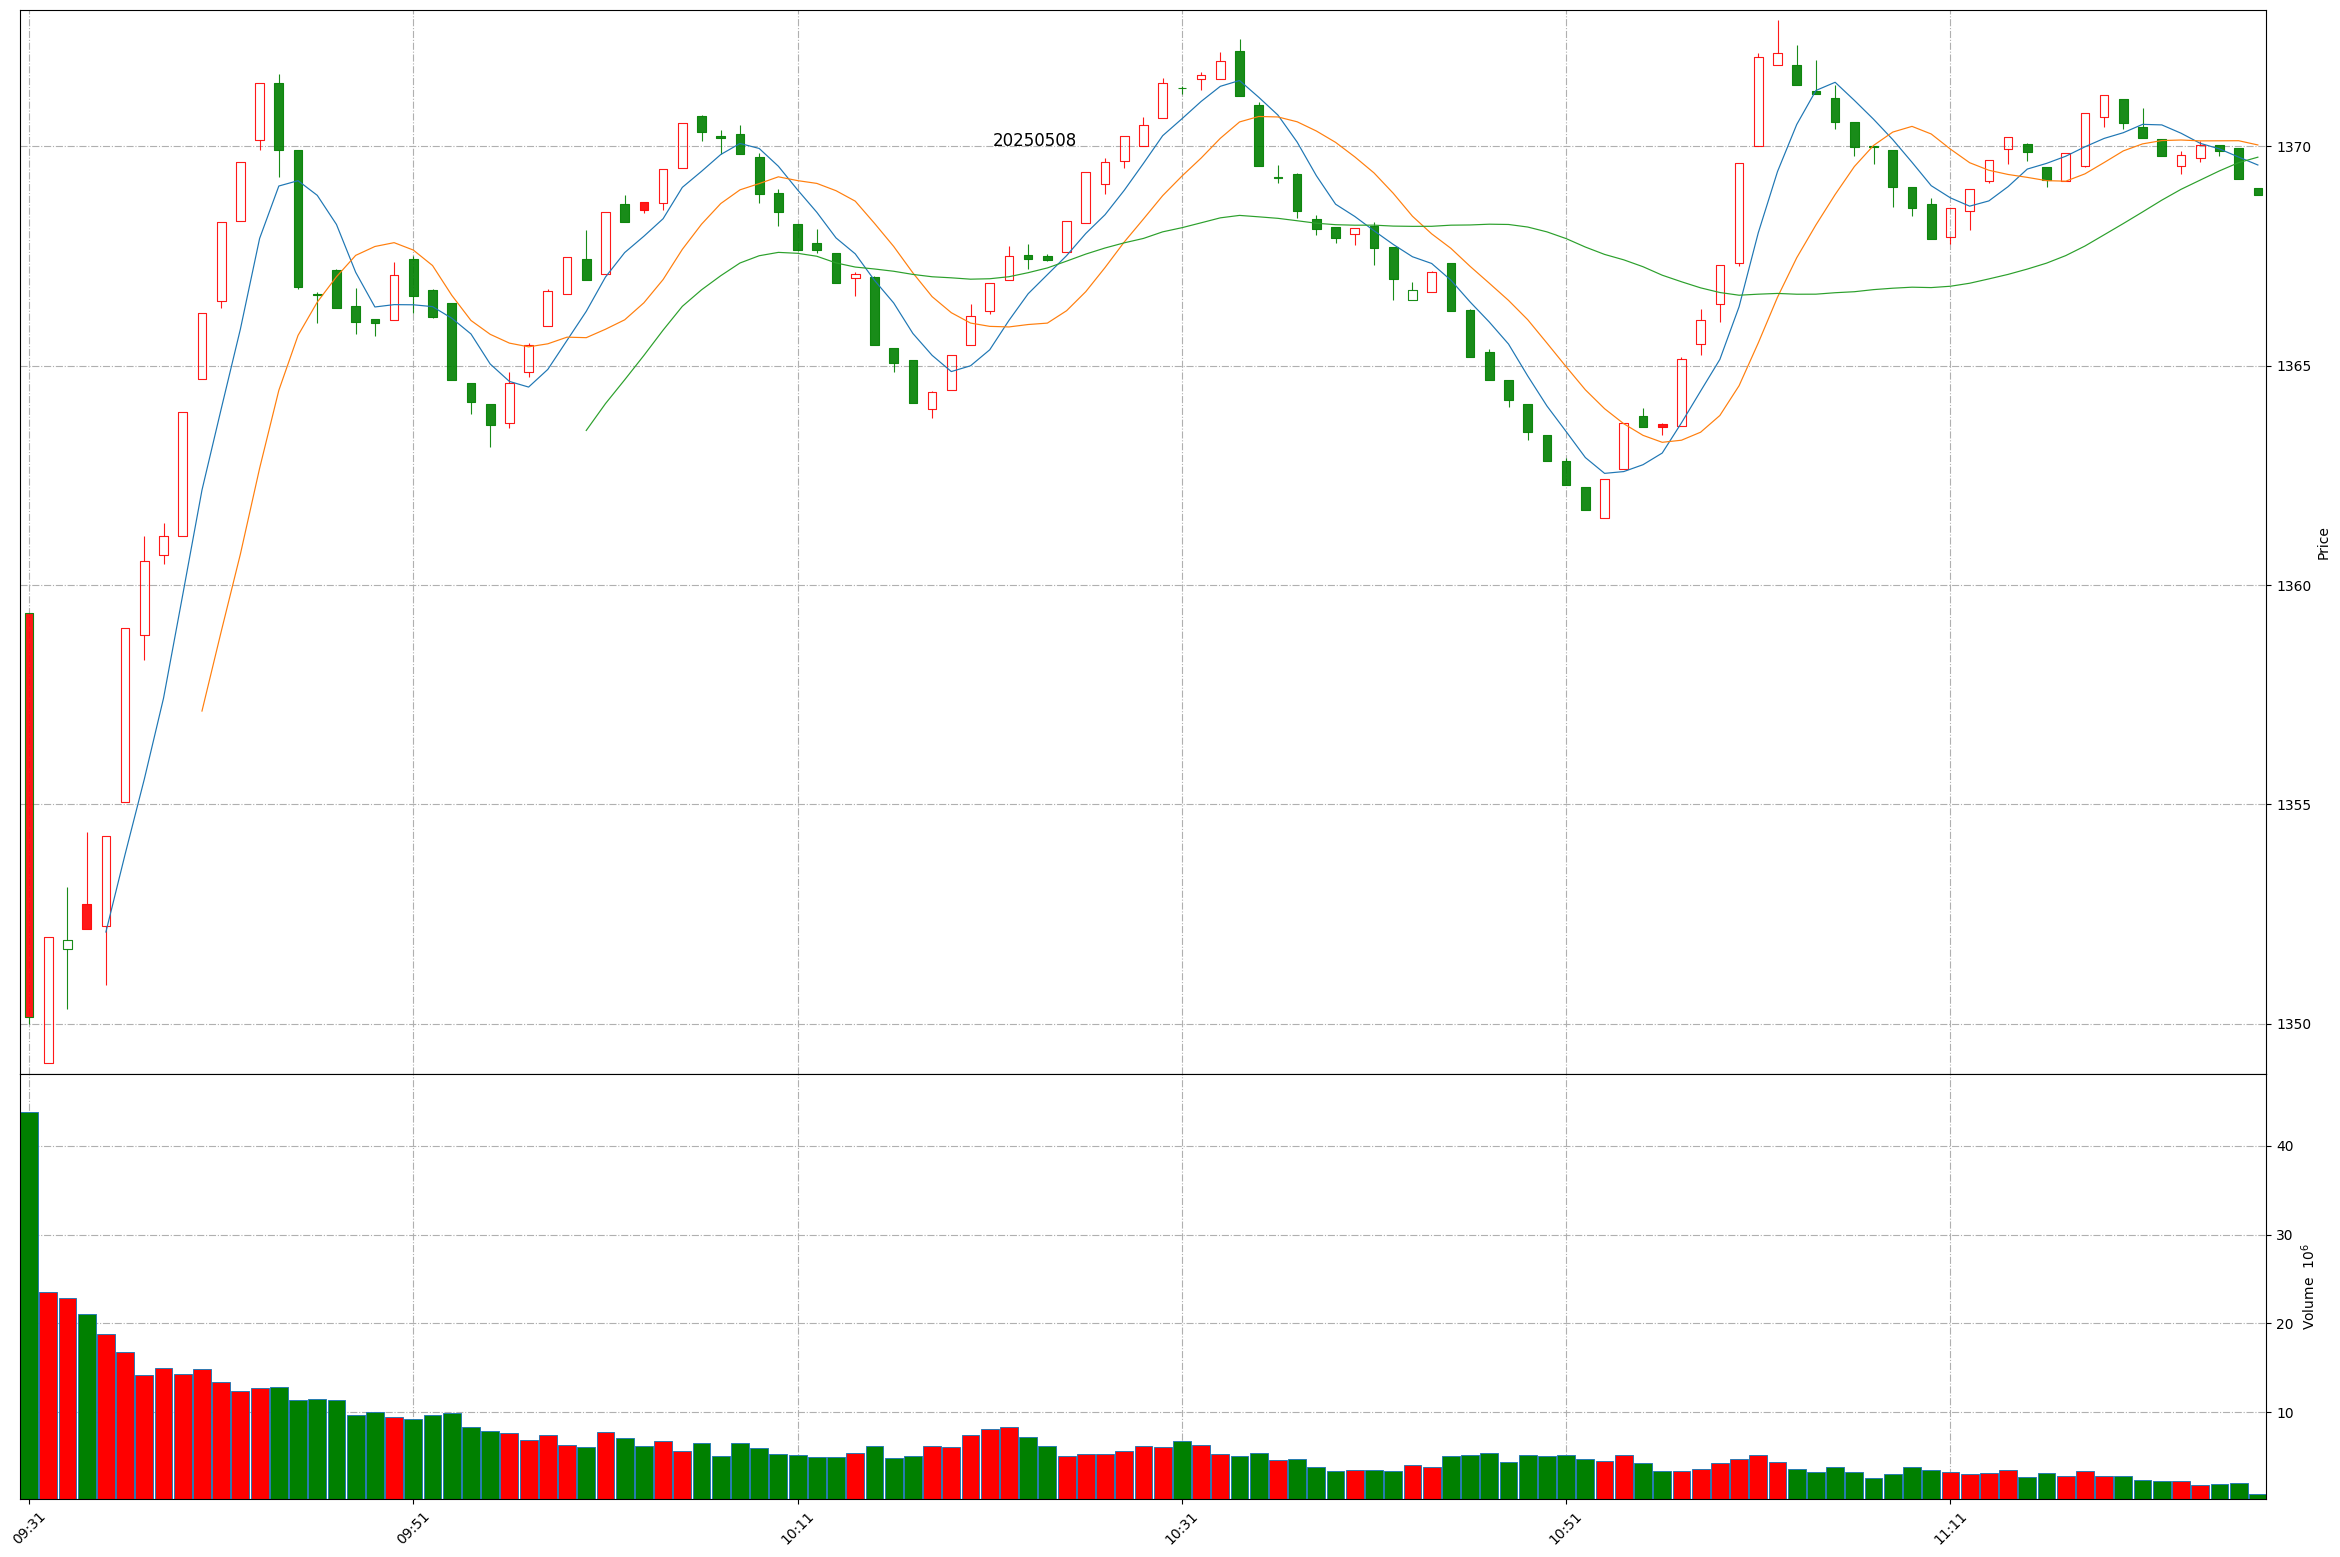
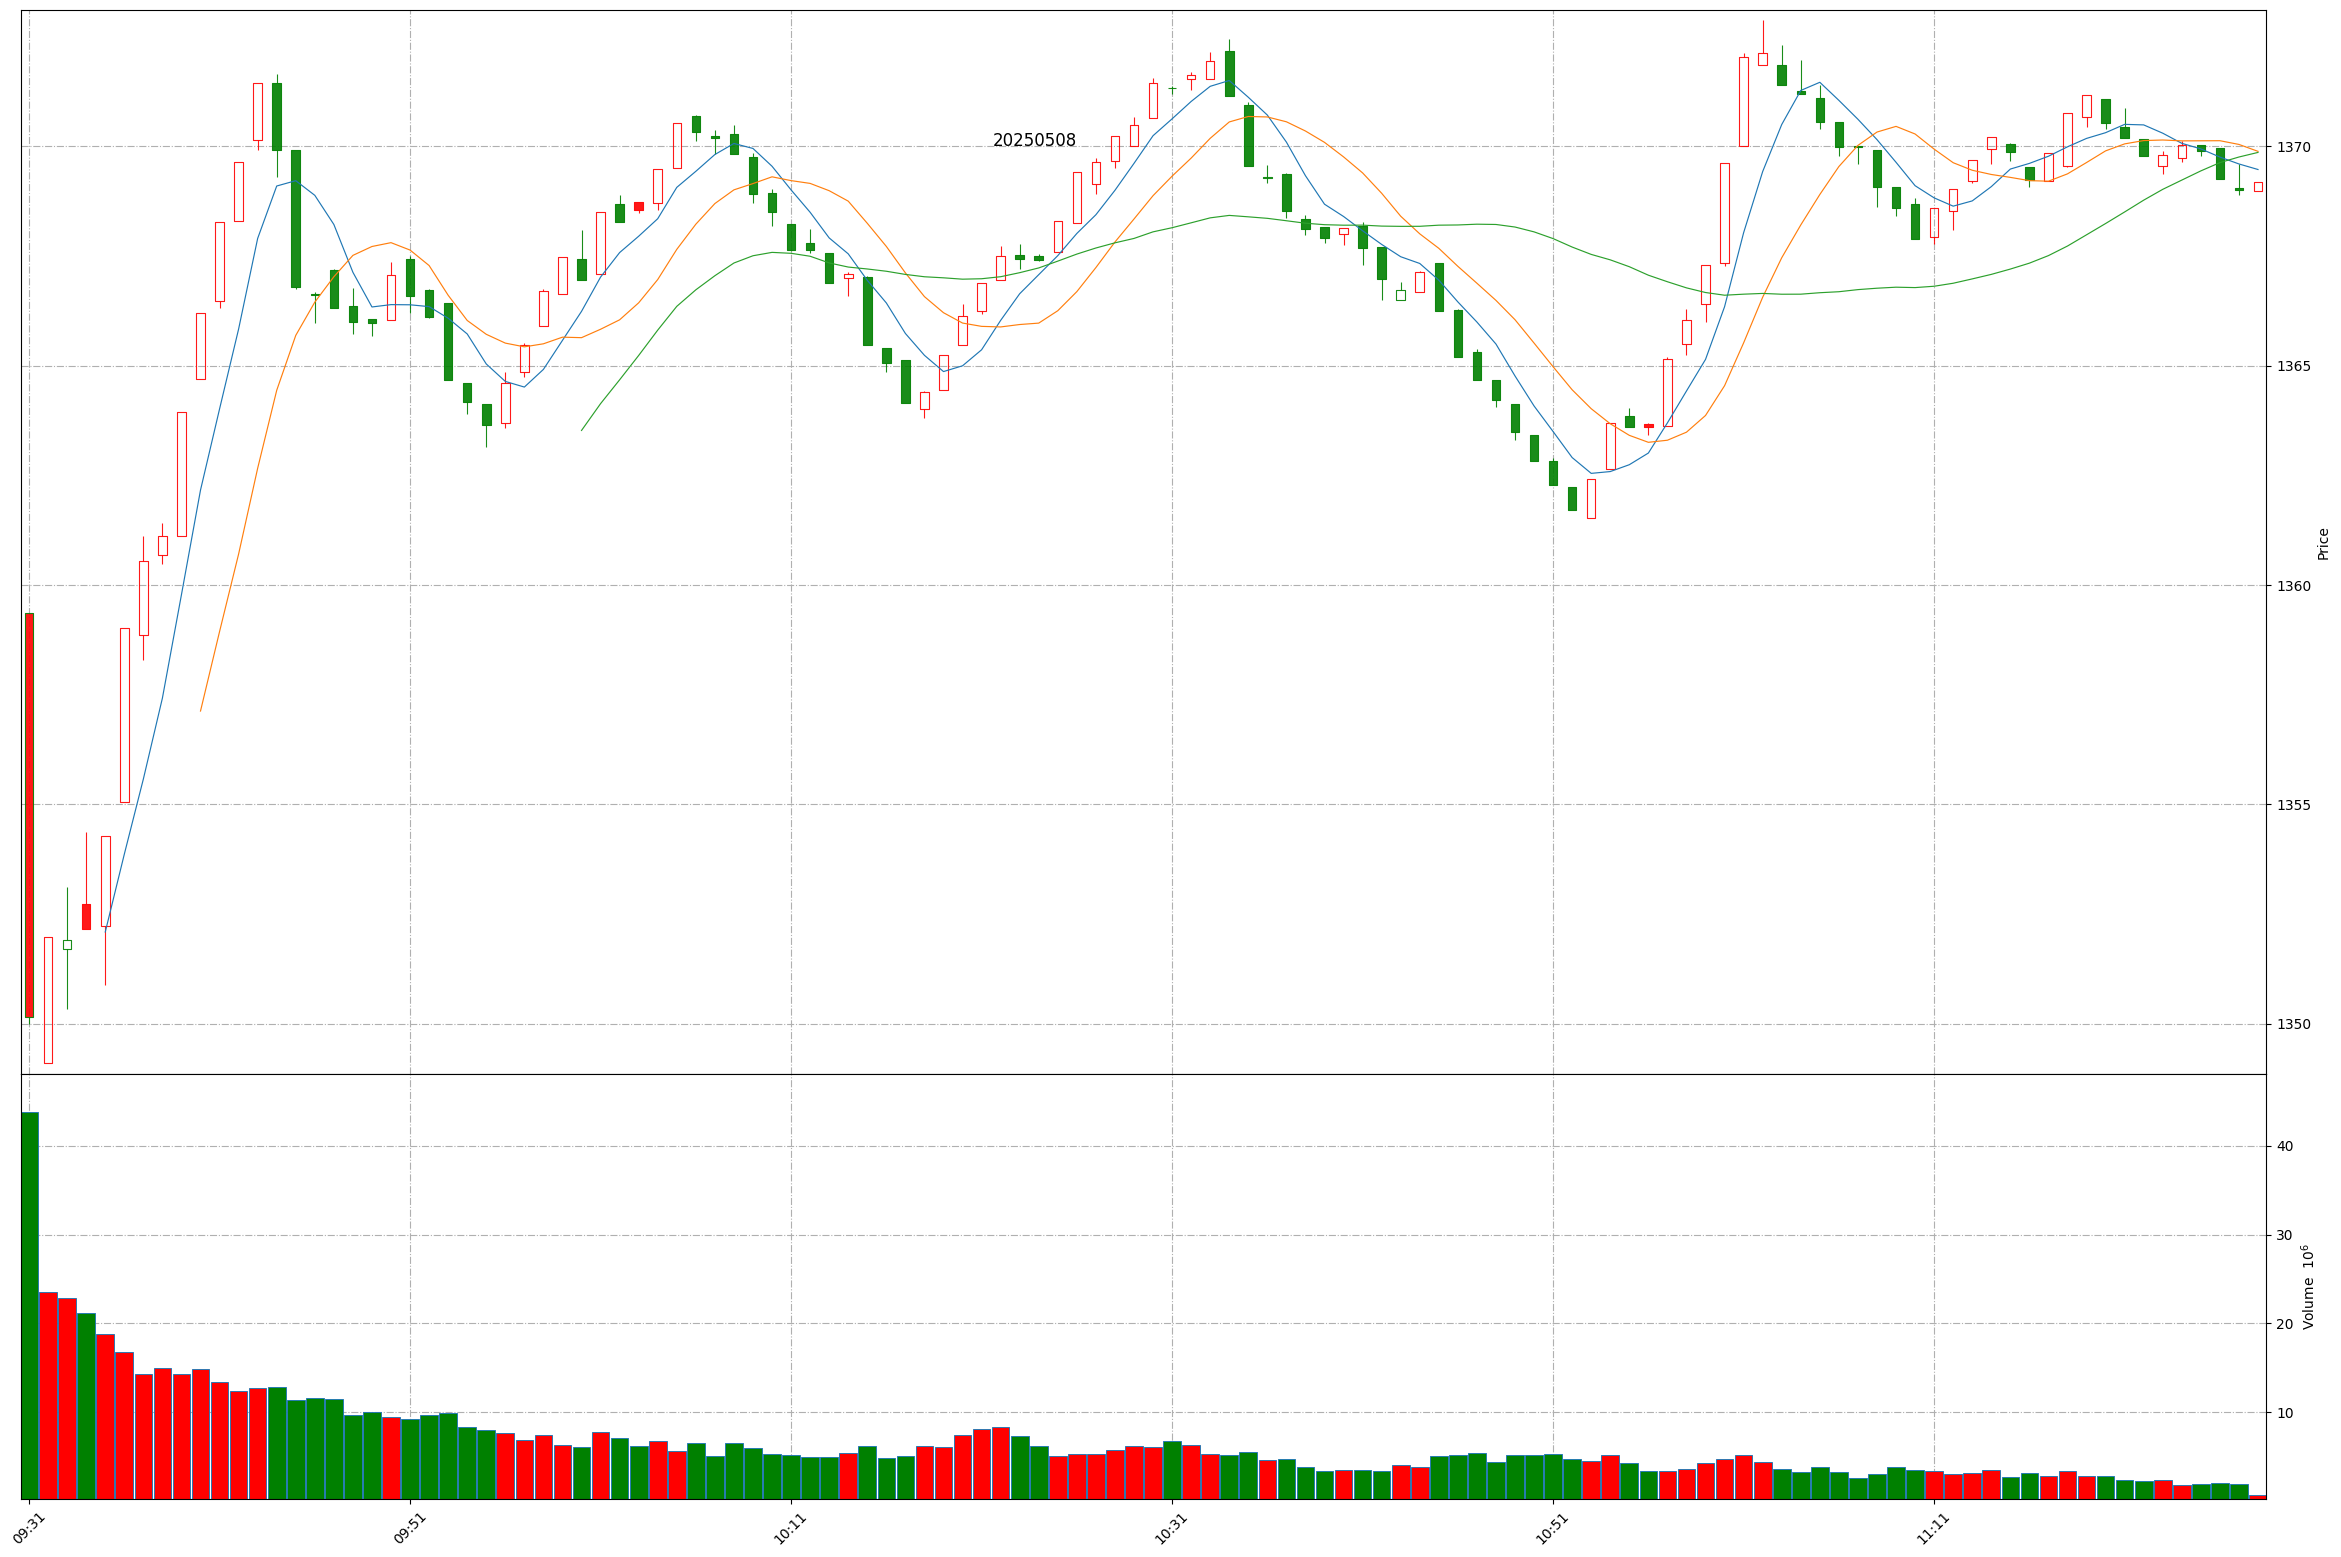
Github action update at 2025-05-08 11:27:38.

diff --git a/README.md b/README.md
@@ -1,11 +1,11 @@
 
 # Daily-A-share-market-quotes 每日 A 股指数（5min 更新）- 20250508
 
-### 上证指数 20250508 11:26
+### 上证指数 20250508 11:27
 ![](./fig/2025/5/20250508-sh000001.png)
 
-### 深证成指 20250508 11:26
+### 深证成指 20250508 11:27
 ![](./fig/2025/5/20250508-sz399001.png)
 
-### 北证50 20250508 11:26
+### 北证50 20250508 11:27
 ![](./fig/2025/5/20250508-bj899050.png)
